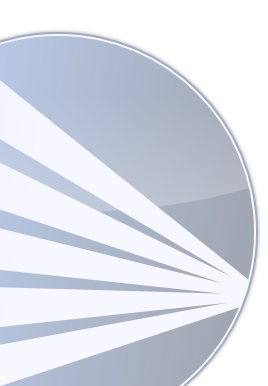
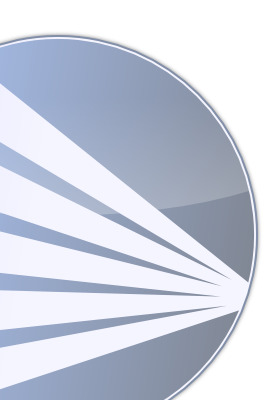
Made wizard image bigger, and made Theme wizard bigger

diff --git a/openlp/core/ui/themewizard.py b/openlp/core/ui/themewizard.py
@@ -52,7 +52,7 @@ class Ui_ThemeWizard(object):
                                QtGui.QWizard.NoBackButtonOnStartPage | QtGui.QWizard.HaveCustomButton1)
         if is_macosx():
             theme_wizard.setPixmap(QtGui.QWizard.BackgroundPixmap, QtGui.QPixmap(':/wizards/openlp-osx-wizard.png'))
-            theme_wizard.resize(646, 386)
+            theme_wizard.resize(646, 400)
         self.spacer = QtGui.QSpacerItem(10, 0, QtGui.QSizePolicy.Fixed, QtGui.QSizePolicy.Minimum)
         # Welcome Page
         add_welcome_page(theme_wizard, ':/wizards/wizard_createtheme.bmp')

diff --git a/openlp/core/ui/themeform.py b/openlp/core/ui/themeform.py
@@ -170,7 +170,6 @@ class ThemeForm(QtGui.QWizard, Ui_ThemeWizard, RegistryProperties):
             else:
                 pixmap_width = int(pixmap_height * self.display_aspect_ratio + 0.5)
             self.preview_box_label.setFixedSize(pixmap_width + 2 * frame_width, pixmap_height + 2 * frame_width)
-        print(self.size())
 
     def validateCurrentPage(self):
         """
